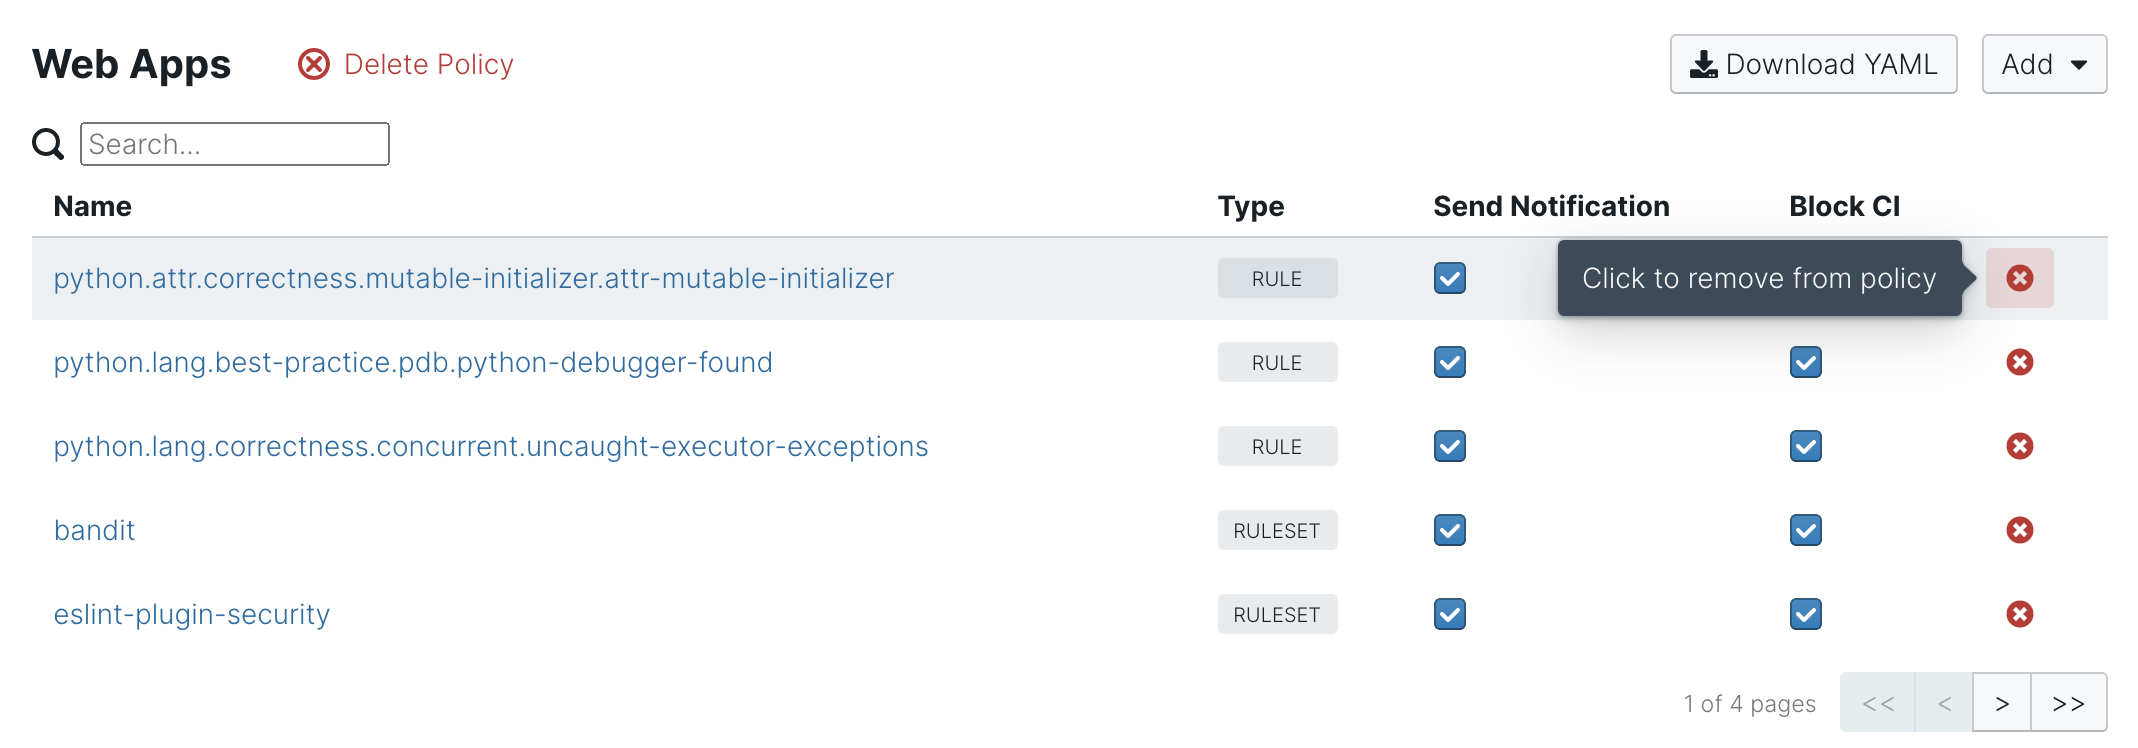
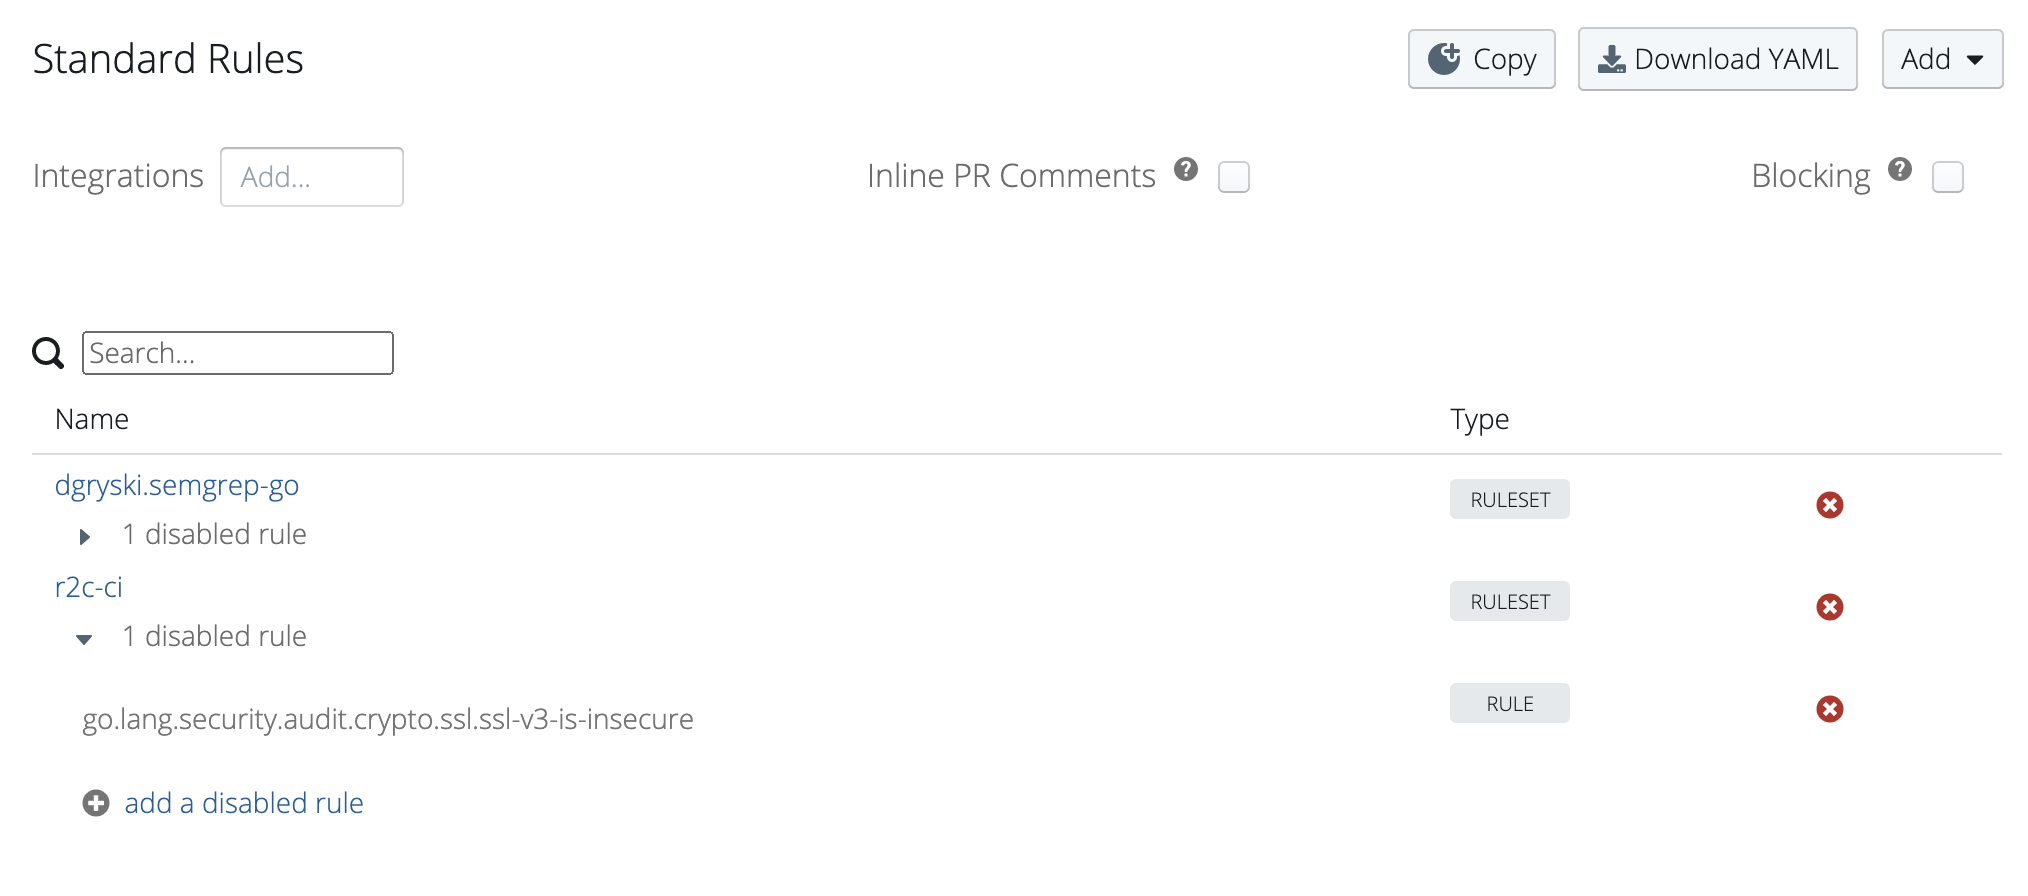
rewrite managing-policy page

diff --git a/docs/managing-policy.md b/docs/managing-policy.md
@@ -1,28 +1,29 @@
 # Managing CI policy
 
-Semgrep Community and Semgrep Team provide infrastructure for managing Semgrep across many projects. Create policies from their web UI and apply those policies to projects in a many-to-many mapping. A policy is a simple collection of rules and a definition of what to do with rule results: fail the Semgrep CI run and/or send non-blocking notifications to third-party services like Slack.
+Semgrep Community and Semgrep Team provide infrastructure for managing Semgrep across many projects. Gather related rules together in "policies" and apply those policies to projects in a many-to-many mapping. A policy is simply a collection of rules, and a definition of what to do with their results: send notifications to third-party services like Slack, post inline pull request comments on GitHub, and/or block the build by returning a non-zero status.
 
-![Sample policy with rules set to send notifcations and block builds](img/policy-sample.png "Policy to block and notify when results are found.")
+![Sample policy with rules set to send notifcations and post PR comments](img/policy-sample.png "Policy to notify when results are found but not block the CI build")
 
 [TOC]
 
-# Creating policy
+# Creating a policy
 
-To create a policy, visit [Manage > Policies](https://semgrep.dev/manage/policy) and select “New Policy.”
+To create a policy, visit [Manage > Policies](https://semgrep.dev/manage/policy) and select “Create New Policy.” To copy the contents of one policy into another, navigate to the existing policy, click "Copy", and then enter the name you would like to give to the new policy.
 
-Policies are often broken down by problem area (e.g., `xss`), application type (e.g., `prod-python-backend`), or blocking status (e.g., `notify-only`). There is no right way to group rules, and it changes team-to-team and organization-to-organization.
+Policies are often broken down by problem area (e.g., `xss`), application type (e.g., `prod-python-backend`), or blocking status (e.g., `notify-only`). There is no right way to group rules, and what makes the most sense will vary by team and organization.
 
-# Editing policy
+# Editing a policy
 
-Any rule, ruleset, or pattern can be added to a policy. Look for the “Add to Policy” button.
+Any rule, ruleset, or pattern can be added to a policy. Look for the “Add to Policy” button when exploring [pre-written rules and rulesets](https://semgrep.dev/explore) or customize your policies even further by adding [rules you write yourself](https://semgrep.live) in our online playground.
 
 ![A ruleset with an "Add to Policy" button visible](img/ruleset.png "A ruleset showing 'Add to Policy'")
 
-To remove or edit the settings for a rule, ruleset, or pattern, go to [Manage > Policies](https://semgrep.dev/manage/policy) and select the relevant policy. You can then remove the item using the deletion `x` or change its notification settings through the ”Send Notification” and “Block CI” checkboxes.
+To edit the settings for a policy, go to [Manage > Policies](https://semgrep.dev/manage/policy) and select the relevant policy from the list. Add or rename integrations using the "Integrations" tab in the left-hand menu, and then add as many of these integrations as you want to each of your policies. You can also check or uncheck the boxes to post PR comments (which also requires a GitHub Token) or to block the build on findings. Don't forget to click save when you are finished editing!
 
-![Policy with deletion button active](img/remove-from-policy.png "A rule being removed from a policy")
+![Policy with disabled rules showing](img/remove-from-policy.png "Disabling a rule within a ruleset")
 
-# Downloading policy
+You can remove items from your policy by clicking the red `x`. To disable individual rules within a ruleset, click the right-caret under a ruleset and then select `add a disabled rule`.
+# Downloading a policy
 
 To locally test and run a policy, select your policy at [Manage > Policies](https://semgrep.dev/manage/policy) and use the “Download YAML” button. This YAML file can then be run locally via:
 
@@ -37,8 +38,8 @@ $ semgrep --config <path/to/yaml> <path/to/code>
 
 To receive notifications via third-party services, like Slack or email:
 
-1. Visit [Manage > Notifications](https://semgrep.dev/manage/notifications) to configure the services
-2. From [Manage > Policies](https://semgrep.dev/manage/policy), select the policy you’d like to configure and select “Send Notification” for the relevant rules, ruleset, or pattern.
+1. Visit [Manage > Integrations](https://semgrep.dev/manage/notifications) to configure the services and name each of your integration channels.
+2. From [Manage > Policies](https://semgrep.dev/manage/policy), select the policy you’d like to configure and add one or more integration channels from the drop-down menu.
 
-When Semgrep CI next runs and finds a result, the configured services will receive the finding.
+When Semgrep CI next runs and finds a result, the configured services will receive a notification about the finding.
 
